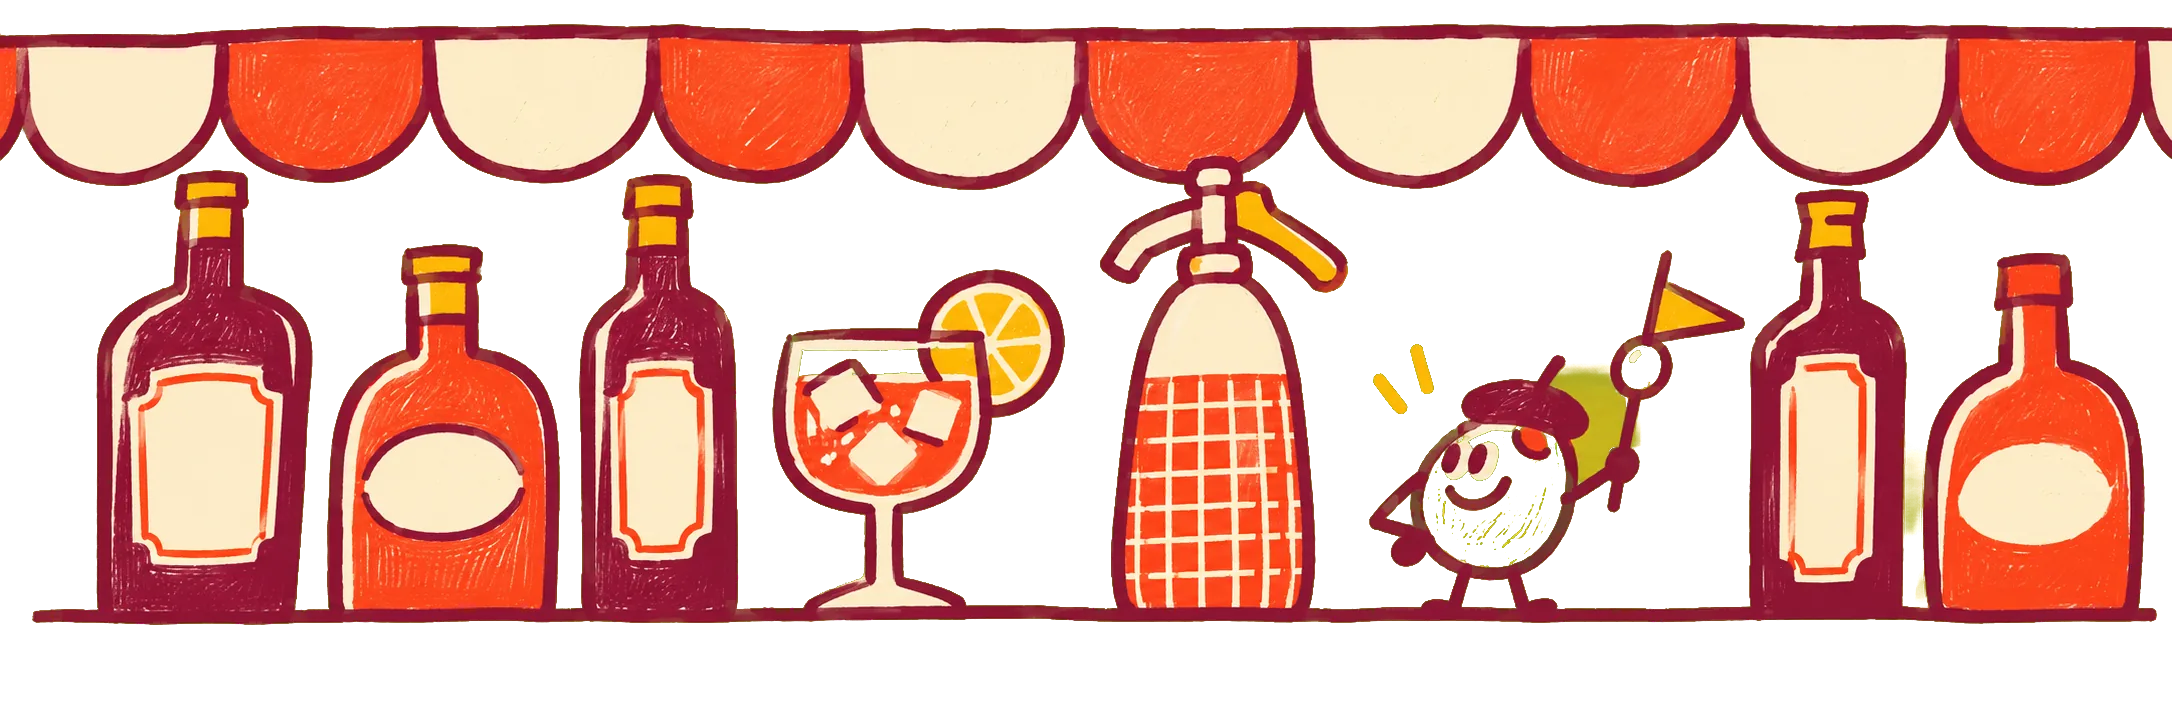
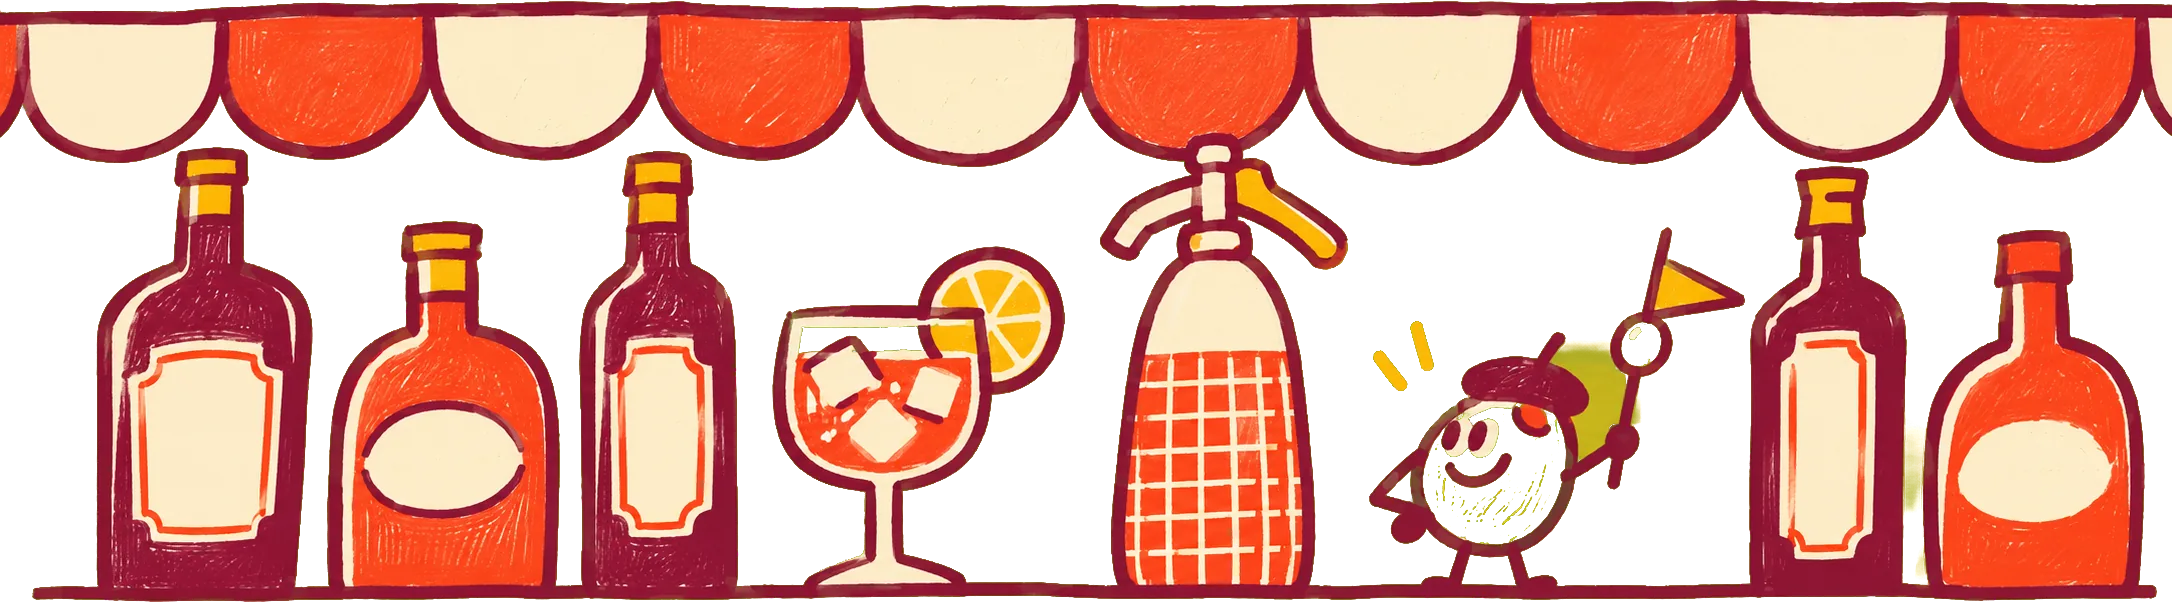
Catalog: el friso llena toda la carpeta (imagen recortada al dibujo y extendida hasta el borde inferior), sin margenes de color plano

diff --git a/src/components/sections/catalog/sketches.ts b/src/components/sections/catalog/sketches.ts
@@ -1,6 +1,7 @@
 // The folder's own picture: a wide, hand-drawn frieze that lies behind the whole header of a closed band, faint, under the title and the meta
 // (Band.tsx draws it, catalog.css `.pm-cat-art` fades it). Each is drawn in four colours chosen against its folder's colour, on that flat
-// colour, and filed by `python tools/ingest_catalog.py <folder>` as public/works/<slug>/catalog-sketch.webp (transparent, 2172 x 724).
+// colour, and filed by `python tools/ingest_catalog.py <folder>` as public/works/<slug>/catalog-sketch.webp (transparent, trimmed to the
+// drawing, about 3:1: the band crops it to fill the whole folder, so no bare margin may be left in the file).
 // A slug in the list below shows its picture and stops drawing the grey SVG sketch of Motif.tsx (which stays in the code as the fallback
 // for a slug that has no picture yet). The prompts that made them are in docs/image-prompts.md (CAT-01 .. CAT-10).
 //
@@ -21,9 +22,6 @@ export const CATALOG_SKETCH = new Set<string>([
   'concept-portfolio',
   'illustration',
 ])
-
-/** pixel size of every frieze (the sources are 3:1) */
-export const SKETCH_SIZE = { width: 2172, height: 724 } as const
 
 /** the public path of a band's own sketch (only ever asked for when the slug is in CATALOG_SKETCH) */
 export const sketchPath = (slug: string): string => asset(`/works/${slug}/catalog-sketch.webp`)

diff --git a/src/components/sections/catalog/Band.tsx b/src/components/sections/catalog/Band.tsx
@@ -18,7 +18,7 @@ import { Inside } from './Inside'
 import { Marked } from './Marked'
 import { Motif, useMotifRoom } from './Motif'
 import type { WorkHit } from './search'
-import { CATALOG_SKETCH, SKETCH_SIZE, sketchPath } from './sketches'
+import { CATALOG_SKETCH, sketchPath } from './sketches'
 import { CAT_UI, PRINT_ALT, PRINT_CAPTION } from './strings'
 import { prefetchThumb, Thumb } from './Thumb'
 import { rememberOpen } from './useReturn'
@@ -196,7 +196,7 @@ function BandImpl({ work, index, state, words, hint, mounted, plays, inlineThumb
             onFocus={() => prefetchThumb(work)}
           >
             {CATALOG_SKETCH.has(work.slug) && (
-              <img className="pm-cat-art" src={sketchPath(work.slug)} width={SKETCH_SIZE.width} height={SKETCH_SIZE.height} alt="" loading="lazy" decoding="async" draggable={false} aria-hidden="true" />
+              <img className="pm-cat-art" src={sketchPath(work.slug)} alt="" loading="lazy" decoding="async" draggable={false} aria-hidden="true" />
             )}
             <span className="pm-cat-no" aria-hidden="true">
               {pad2(work.n)}

diff --git a/src/components/sections/catalog.css b/src/components/sections/catalog.css
@@ -636,7 +636,14 @@
   opacity: var(--art-o);
   pointer-events: none;
   user-select: none;
-  transition: opacity 0.35s ease;
+  transition: opacity 0.35s ease, height 0.35s var(--ease-out);
+}
+/* a closed band's picture also runs over the strip of the body under the header (the landing zone of the next band's tab), so the folder is
+   filled to its bottom edge with no bare colour; the open band keeps it on the header only (its panel below is for the text).
+   It is a height, not a `bottom`: an image with an explicit height ignores the bottom inset. */
+.pm-cat-band:not([data-state='open']) .pm-cat-art {
+  height: calc(100% + var(--cat-th) + 6px);
+  border-radius: var(--br);
 }
 /* where the crop falls on each picture: the part that says what the folder is (the ground line of the skyline, the fedora, the awning) */
 .pm-cat-band[data-slug='plana'] .pm-cat-art { object-position: 50% 64%; }

diff --git a/tools/ingest_catalog.py b/tools/ingest_catalog.py
@@ -1,7 +1,8 @@
 """Files the ten Catalog friezes (CAT-01..CAT-10, drawn on the flat colour of their folder) into the site.
 
 For each image: find the flat background colour, key it out with a soft edge (so the drawing sits on the real band colour, grain and all),
-and save public/works/<slug>/catalog-sketch.webp (transparent). The page shows it behind the title of the band (see catalog.css, .pm-cat-art).
+trim the empty margins to the drawing, and save public/works/<slug>/catalog-sketch.webp (transparent, about 2100 x 700, the exact size depends on the
+drawing). The page shows it behind the title of the band, cropped to fill the whole folder (see catalog.css, .pm-cat-art).
 
     python tools/ingest_catalog.py <folder holding CAT-01.png .. CAT-10.png>
 
@@ -40,7 +41,6 @@ BAND = {
     'illustration': '#B79CFF',
 }
 D0, D1 = 16.0, 46.0  # colour distance under D0 is background, over D1 is drawing, in between is the soft edge
-WIDTH = 2172  # the sources are 2172 x 724 (3:1): kept at full size, the band shows them up to ~1500 css px wide
 
 
 def hex_rgb(h):
@@ -81,8 +81,11 @@ def run(src_dir):
         rgb = np.where(alpha[..., None] < 0.05, a, rgb)
         out = np.dstack([rgb, alpha * 255]).astype(np.uint8)
         im = Image.fromarray(out, 'RGBA')
-        if im.width != WIDTH:
-            im = im.resize((WIDTH, round(im.height * WIDTH / im.width)), Image.LANCZOS)
+        # trim the empty flat margins: the band shows the picture cropped to fill the whole folder, so no strip of bare colour may be left
+        # at any edge (anything fainter than 35% alpha, a speck of grain, does not count as drawing)
+        box = Image.fromarray((alpha > 0.35).astype(np.uint8) * 255).getbbox()
+        if box:
+            im = im.crop(box)
         dst_dir = os.path.join(ROOT, 'public', 'works', slug)
         os.makedirs(dst_dir, exist_ok=True)
         dst = os.path.join(dst_dir, 'catalog-sketch.webp')

diff --git a/docs/api/sections-catalog.md b/docs/api/sections-catalog.md
@@ -106,6 +106,6 @@ Transform, opacity and clip-path only, plus the one layout fold of the accordion
 **The sketch slot** (`catalog/sketches.ts`): `CATALOG_SKETCH` is a static set of slugs (like `OFFICIAL_ART`; a slug that is not listed never requests the file, so there is no 404 on the live site). It now lists all ten.
 
 ### Fix round 3 (owner: a wide hand-drawn frieze behind each folder)
-Each folder has its own wide picture (3:1, 2172 x 724, drawn in four colours chosen against the folder's colour; prompts CAT-01 .. CAT-10 in `docs/image-prompts.md`), filed by `python tools/ingest_catalog.py <folder>` as `public/works/<slug>/catalog-sketch.webp`: the flat folder colour is keyed out (soft edge, un-premultiplied) so the picture lies on the real band colour, grain included. `Band.tsx` renders `<img class="pm-cat-art" alt="" aria-hidden loading="lazy">` as the **first child of the header button**, so it sits behind the number, the title and the meta, and `Motif.tsx` returns null for a slug in the set (the grey SVG sketches stay in the code as the fallback for a slug without a picture).
-**CSS** (`catalog.css`, `.pm-cat-art`): `.pm-cat-head` is `isolation: isolate` and the picture is `z-index: -1; inset: 0; object-fit: cover; border-radius: inherit`, so it is above the band's field and below every word; opacity `--art-o: 0.3` (0.4 while the header is hovered); three bands have their own crop (`object-position`: Plana 64 percent so the ground line shows, Spelled Guilty 40 so the fedora shows, Gotet 34 so the awning shows). A header with a picture is never flatter than 7:1 (`aspect-ratio: 7 / 1` from 761px, `auto` for a dimmed band): below that, `cover` would show only a thin slice of a 3:1 picture (heads were 115 to 230 px at 1440, now 181 to 230; at 1920 217 to 284). The title and meta keep their own height when they need more. A band dimmed by the search folds down as before and its picture fades to 0. **It shows on phones too** (it is a background, not a motif that needs room), cropped by `cover`.
+Each folder has its own wide picture (about 3:1, drawn in four colours chosen against the folder's colour; prompts CAT-01 .. CAT-10 in `docs/image-prompts.md`), filed by `python tools/ingest_catalog.py <folder>` as `public/works/<slug>/catalog-sketch.webp`: the flat folder colour is keyed out (soft edge, un-premultiplied) so the picture lies on the real band colour, grain included, and the file is **trimmed to the drawing** (no bare margin at any edge: the owner wants the whole folder filled, cropped if need be). `Band.tsx` renders `<img class="pm-cat-art" alt="" aria-hidden loading="lazy">` as the **first child of the header button**, so it sits behind the number, the title and the meta, and `Motif.tsx` returns null for a slug in the set (the grey SVG sketches stay in the code as the fallback for a slug without a picture).
+**CSS** (`catalog.css`, `.pm-cat-art`): `.pm-cat-head` is `isolation: isolate` and the picture is `z-index: -1; inset: 0; object-fit: cover; border-radius: inherit`, so it is above the band's field and below every word; opacity `--art-o: 0.3` (0.4 while the header is hovered); **a closed band's picture is `height: calc(100% + var(--cat-th) + 6px)`**, so it also runs over the strip of the body under the header (the landing zone of the next band's tab) and the folder is filled to its bottom edge with rounded corners (it must be a height: an `<img>` with an explicit height ignores `bottom`); the open band keeps it on the header only, its panel is for the text; three bands have their own crop (`object-position`: Plana 64 percent so the ground line shows, Spelled Guilty 40 so the fedora shows, Gotet 34 so the awning shows). A header with a picture is never flatter than 7:1 (`aspect-ratio: 7 / 1` from 761px, `auto` for a dimmed band): below that, `cover` would show only a thin slice of a 3:1 picture (heads were 115 to 230 px at 1440, now 181 to 230; at 1920 217 to 284). The title and meta keep their own height when they need more. A band dimmed by the search folds down as before and its picture fades to 0. **It shows on phones too** (it is a background, not a motif that needs room), cropped by `cover`.
 **Verified** (dev server, headless Chrome): 1440, 1920, 1024 and 390 wide, every band, 0 console errors, 0 failed requests; dimmed bands collapse to 35 px with the picture at opacity 0; the first screen's open band keeps its layout.

diff --git a/docs/image-prompts.md b/docs/image-prompts.md
@@ -38,7 +38,7 @@ So the picture is a very long, low strip. Plan for filing:
 2. The picture becomes the **background of the band head**: full width, behind the title and the meta, `object-fit: cover`, opacity 0.3 (0.4 on hover). The old small grey sketch is switched off for that slug (`CATALOG_SKETCH` in `catalog/sketches.ts`). A header with a picture is never flatter than 7:1, so the crop shows enough of the picture.
 3. It shows on phones too (as a background it needs no room).
 
-**Status: CAT-01 .. CAT-10 are filed and live** (`python tools/ingest_catalog.py _inbox/refs`; the generated images are 2172x724). To replace one, put the new `CAT-NN.png` in the inbox and run the script again.
+**Status: CAT-01 .. CAT-10 are filed and live** (`python tools/ingest_catalog.py _inbox/refs`; the generated images are 2172x724, the script trims the empty margins so the band can fill the whole folder). To replace one, put the new `CAT-NN.png` in the inbox and run the script again.
 
 Folder colours: 01 tomato `#FF4B2B`, 02 pine `#1F5C46`, 03 marigold `#FFB81C`, 04 oxblood `#8A1B3D`, 05 ultraviolet `#5B3DF5`, 06 bubblegum `#FF8FC1`, 07 lagoon `#0F9AA8`, 08 olive `#86A22F`, 09 butter `#FBE79A`, 10 lilac `#B79CFF`.
 
